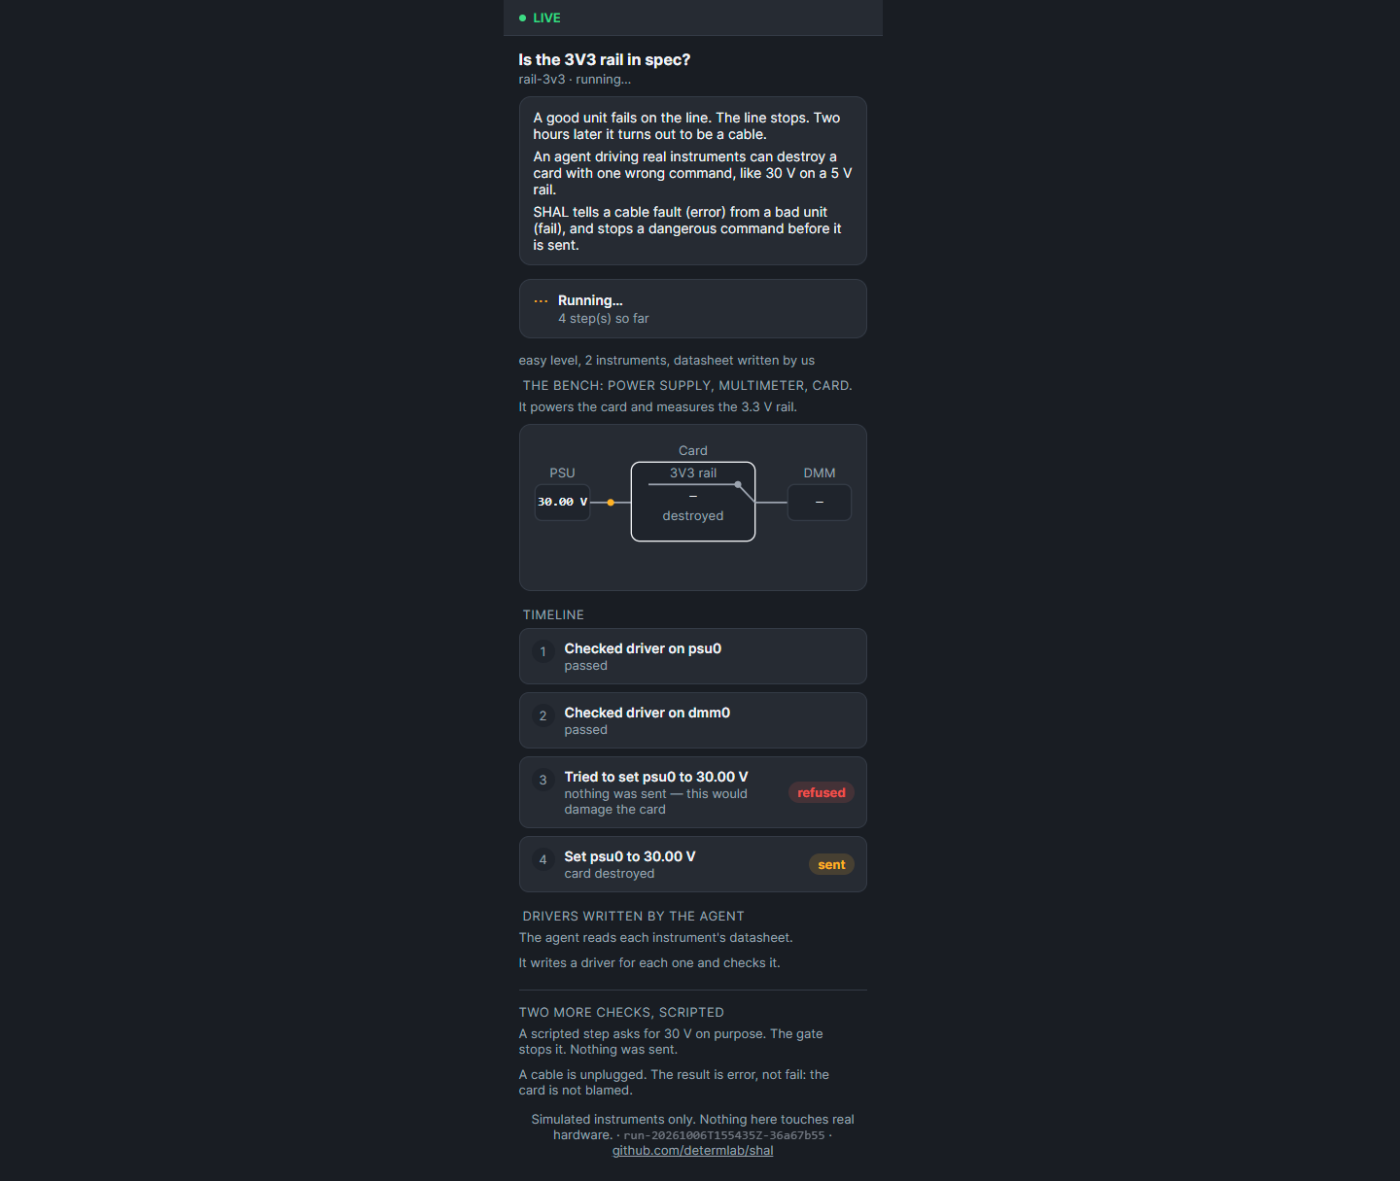
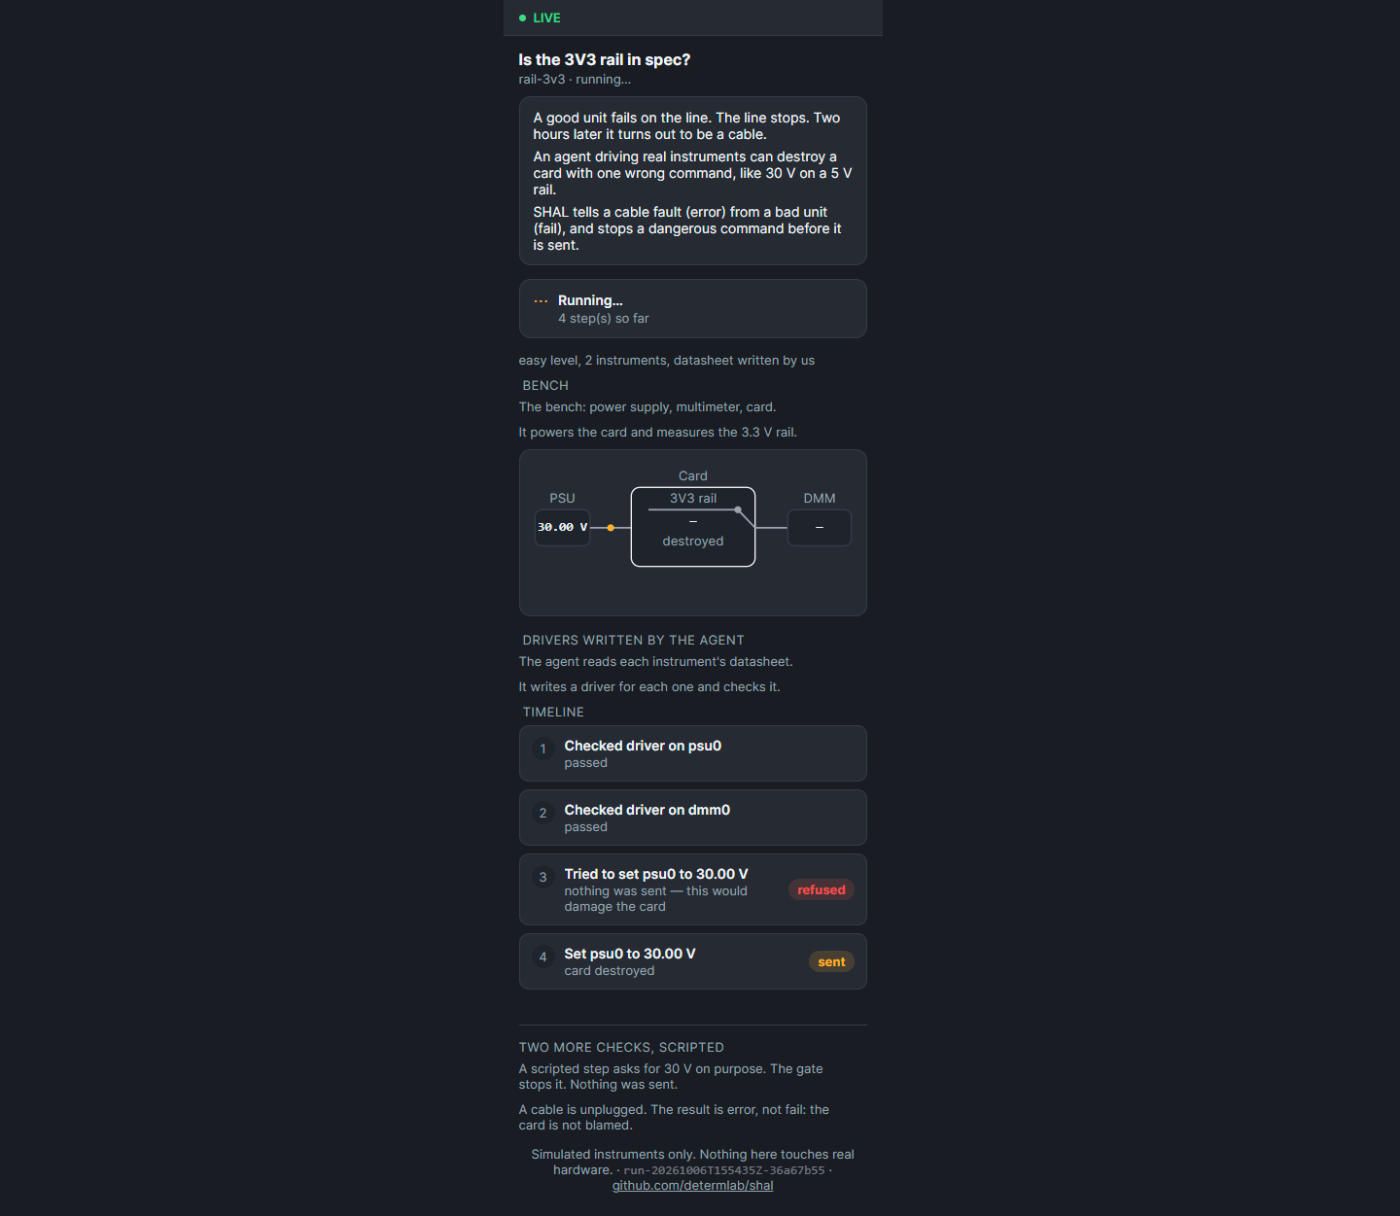
arena ui: CMO wording, lead with the failing measurement, drop local paths from the record (PR 434 follow-up)
- The 4-instrument bench subtitle, exact CMO text: "It switches the
  card on through the relay, then measures the 3.3 V rail and the
  regulator temperature."
- The overheat closing sentence leads with the failing measurement
  only (no decimals, no delta), exact CMO text: "Measured: the
  regulator reads 90 \u00b0C, above its 85 \u00b0C limit. The agent's
  answer: overheat. Correct." -- generalized: when any clause is out
  of its window/limit (or a failed read), only the failing clauses
  show; an in-spec reading stays silent. Nothing is failing (e.g. the
  "ok" answer) still shows every measurement.
- "Bench" (the section label) stays short and uppercase; the
  varying caption-3 sentence is its own normal plain paragraph.
- "Drivers written by the agent" moved above the Timeline, so the
  page follows the order of events.
- The embedded `record` no longer carries task_path/card_path (local
  filesystem paths) -- only given, fault_id and correct.
- Screenshots retaken for the wording/layout changes.

Claude-Session: https://claude.ai/code/session_017m3bQhKaHmqh7pWvUpGx73

diff --git a/arena/src/shal_arena/ui/data.py b/arena/src/shal_arena/ui/data.py
@@ -65,33 +65,38 @@ def _varies(values: list[float], decimals: int) -> bool:
     return len({round(v, decimals) for v in values}) > 1
 
 
-def _rail_clause(rail: dict[str, Any], values: list[float]) -> str:
+def _rail_clause(rail: dict[str, Any], values: list[float]) -> tuple[str, bool]:
     label, lo, hi = f"the {rail['name']} rail", rail["lo"], rail["hi"]
     if _varies(values, 2):
-        return f"{label} reads {min(values):.2f}-{max(values):.2f} V across reads"
+        return f"{label} reads {min(values):.2f}-{max(values):.2f} V across reads", True
     v = values[-1]
     if lo <= v <= hi:
-        return f"{label} reads {v:.2f} V, inside its {lo:.2f}-{hi:.2f} V window"
+        return f"{label} reads {v:.2f} V, inside its {lo:.2f}-{hi:.2f} V window", False
     side = "below" if v < lo else "above"
     limit = lo if v < lo else hi
-    return f"{label} reads {v:.2f} V, {side} its {limit:.2f} V limit"
+    return f"{label} reads {v:.2f} V, {side} its {limit:.2f} V limit", True
 
 
-def _temp_clause(temp: dict[str, Any], values: list[float]) -> str:
-    label, high = temp["name"], temp["high_c"]
-    if _varies(values, 1):
-        return f"{label} reads {min(values):.1f}-{max(values):.1f} °C across reads"
+def _temp_clause(temp: dict[str, Any], values: list[float]) -> tuple[str, bool]:
+    # issue #432 CMO wording (CTO-approved, exact text): no decimals, no
+    # delta -- "the regulator reads 90 °C, above its 85 °C limit."
+    label, high = f"the {temp['name']}", temp["high_c"]
+    if _varies(values, 0):
+        return f"{label} reads {min(values):.0f}-{max(values):.0f} °C across reads", True
     v = values[-1]
     if v <= high:
-        return f"{label} {v:.1f} °C, within its {high:.1f} °C limit"
-    return f"{label} {v:.1f} °C, {v - high:.1f} °C above its {high:.1f} °C limit"
+        return f"{label} reads {v:.0f} °C, within its {high:.0f} °C limit", False
+    return f"{label} reads {v:.0f} °C, above its {high:.0f} °C limit", True
 
 
 def _measured_clause(name: str, rail: dict[str, Any] | None, temp: dict[str, Any] | None,
-                     readings: list[float], cause: str | None) -> str | None:
+                     readings: list[float], cause: str | None) -> tuple[str, bool] | None:
     """`None` means "say nothing about this instrument" -- no attempt was
     ever logged for it (an old capture made before this ticket with no
-    `reading` line, or an instrument the agent never touched).
+    `reading` line, or an instrument the agent never touched). The `bool`
+    says whether this clause is a FAILING one (out of its window/limit, or
+    a failed read) -- issue #432 CMO wording: the sentence leads with the
+    failing measurement only, when there is one.
 
     issue #432 CTO review: the failed-read cause comes from a `failed`
     sim-log line `take_measurement` itself writes (its own except block,
@@ -104,11 +109,11 @@ def _measured_clause(name: str, rail: dict[str, Any] | None, temp: dict[str, Any
             return _rail_clause(rail, readings)
         if temp is not None:
             return _temp_clause(temp, readings)
-        return f"the {name} reads {readings[-1]:.2f}"
+        return f"the {name} reads {readings[-1]:.2f}", False
     if cause == "driver":
-        return f"the agent's driver failed to read the {name}"
+        return f"the agent's driver failed to read the {name}", True
     if cause == "transport":
-        return f"No answer from the {name}"
+        return f"No answer from the {name}", True
     return None
 
 
@@ -149,13 +154,20 @@ def _answer_sentence(payload: dict[str, Any], rails: list[dict[str, Any]],
         if clause is not None:
             clauses.append(clause)
 
+    # issue #432 CMO wording: lead with the failing measurement only, when
+    # there is one -- an in-spec rail reading is not part of the story
+    # when the regulator is the one that's out of limit. Only when NOTHING
+    # is failing (e.g. the "ok" answer) does every measurement still show.
+    failing = [text for text, is_failing in clauses if is_failing]
+    texts = failing if failing else [text for text, _ in clauses]
+
     # issue #427 CTO review round 2: "destroyed" must not claim "before any
     # reading" when readings were in fact taken (e.g. a fault was measured,
     # then a later scripted 30 V ask destroyed the card).
-    if payload["card"]["destroyed"] and not clauses:
+    if payload["card"]["destroyed"] and not texts:
         measured = "nothing -- the card was destroyed before any reading"
-    elif clauses:
-        measured = ", ".join(clauses)
+    elif texts:
+        measured = ", ".join(texts)
     else:
         measured = None
 
@@ -213,7 +225,15 @@ def run_payload(run_id: str, *, state_dir: str | Path = DEFAULT_STATE_DIR) -> di
         for addr, t in state.tiles.items()
     }
     closed = state.status == "closed"
-    record = _load_json(store.record_path(run_id)) if closed else None
+    # issue #432 CTO review: the record file on disk also carries
+    # `task_path`/`card_path`/`run_id`/`closed_at` -- `task_path`/`card_path`
+    # are local filesystem paths (e.g. this machine's own /tmp), never
+    # meant to reach a page served to someone else. The page needs only
+    # what it actually renders: the agent's own answer, the hidden fault
+    # it is scored against, and whether they matched.
+    full_record = _load_json(store.record_path(run_id)) if closed else None
+    record = ({"given": full_record["given"], "fault_id": full_record["fault_id"],
+               "correct": full_record["correct"]} if full_record is not None else None)
     score = _load_json(store.score_path(run_id)) if closed else None
 
     payload = {

diff --git a/arena/tests/test_ui_followup.py b/arena/tests/test_ui_followup.py
@@ -52,6 +52,13 @@ _STEP_CAPTIONS = (
 )
 
 
+def test_four_instrument_bench_subtitle_matches_the_exact_cmo_wording() -> None:
+    """issue #432 CMO wording (CTO-approved, exact text)."""
+    html = render_watch_page("run-x", _BASE_PAYLOAD)
+    assert "It switches the card on through the relay, then measures the 3.3 V " in html
+    assert "rail and the regulator temperature." in html
+
+
 def test_all_seven_step_captions_are_verbatim_on_the_page() -> None:
     """issue #427 CTO review round 2: captions 1, 2, 4, 6 and 7 were
     missing. All seven, exact text, from the #406 issue body."""
@@ -482,9 +489,12 @@ def test_failure_cause_old_capture_with_no_reading_has_no_measured_clause(
     assert sentence == "The agent's answer: ok. Wrong: the card has a fault."
 
 
-def test_overheat_sentence_contains_the_delta_in_celsius(tmp_path: Path) -> None:
-    """issue #432: the overheat template must show the delta, e.g. "5.0 °C
-    above its 85.0 °C limit", not just the bare limit."""
+def test_overheat_sentence_matches_the_exact_cmo_wording(tmp_path: Path) -> None:
+    """issue #432 CMO wording (CTO-approved, exact text): "Measured: the
+    regulator reads 90 °C, above its 85 °C limit. The agent's answer:
+    overheat. Correct." -- no decimals, no delta, and the in-spec rail
+    reading is dropped: the sentence leads with the failing measurement
+    only."""
     from shal_arena import fault as fault_mod
     from shal_arena.loader import load_task
 
@@ -492,17 +502,15 @@ def test_overheat_sentence_contains_the_delta_in_celsius(tmp_path: Path) -> None
     seed = next(s for s in range(500)
                if fault_mod.realized_fault(card, s).fault_id == "overheat")
     run_id = start_run(str(RELAY_RAIL_TASK), seed=seed, state_dir=tmp_path)["run_id"]
+    take_measurement(run_id, "dmm0", PASSING_DMM_DRIVER, state_dir=tmp_path)
     take_measurement(run_id, "temp0", PASSING_TEMP_DRIVER, state_dir=tmp_path)
     answer(run_id, "overheat", state_dir=tmp_path)
 
     payload = run_payload(run_id, state_dir=tmp_path)
     sentence = payload["answer_sentence"]
-    import re
-    m = re.search(r"regulator (\d+\.\d) °C, (\d+\.\d) °C above its (\d+\.\d) °C limit",
-                  sentence)
-    assert m, sentence
-    reading, delta, limit = (float(x) for x in m.groups())
-    assert round(reading - limit, 1) == round(delta, 1)
+    assert sentence == (
+        "Measured: the regulator reads 90 °C, above its 85 °C limit. "
+        "The agent's answer: overheat. Correct.")
 
 
 def test_every_screenshot_is_a_genuine_full_page_capture() -> None:
@@ -537,27 +545,27 @@ def test_answer_sentence_on_a_destroyed_card(tmp_path: Path) -> None:
     assert "destroyed" in sentence
 
 
-def test_answer_sentence_on_a_relay_rail_overheat_run_names_both_readings(
+def test_answer_sentence_on_a_relay_rail_ok_run_still_names_both_readings(
         tmp_path: Path) -> None:
-    """CTO blocker: the 4-instrument bench (psu/dmm/relay/temp) must
-    render a full sentence, including the temperature reading and the
-    regulator's own limit, not just the rail."""
+    """issue #432: the "lead with the failing measurement only" rule only
+    applies when something IS failing -- an "ok" answer has no failing
+    measurement, so both the rail and the regulator still show."""
     from shal_arena import fault as fault_mod
     from shal_arena.loader import load_task
 
     card = load_task(str(RELAY_RAIL_TASK)).card
     seed = next(s for s in range(500)
-               if fault_mod.realized_fault(card, s).fault_id == "overheat")
+               if fault_mod.realized_fault(card, s).fault_id == "ok")
     run_id = start_run(str(RELAY_RAIL_TASK), seed=seed, state_dir=tmp_path)["run_id"]
     take_measurement(run_id, "dmm0", PASSING_DMM_DRIVER, state_dir=tmp_path)
     take_measurement(run_id, "temp0", PASSING_TEMP_DRIVER, state_dir=tmp_path)
-    answer(run_id, "overheat", state_dir=tmp_path)
+    answer(run_id, "ok", state_dir=tmp_path)
 
     payload = run_payload(run_id, state_dir=tmp_path)
     sentence = payload["answer_sentence"]
     assert "rail reads" in sentence
-    assert "regulator" in sentence
-    assert "above its" in sentence
+    assert "regulator reads" in sentence
+    assert "within its" in sentence
     assert sentence.endswith("Correct.")
 
 
@@ -598,3 +606,22 @@ def test_export_from_a_capture_with_a_task_path_from_another_machine(tmp_path: P
 
     payload = run_payload(run_id, state_dir=tmp_path)
     assert payload["task_id"] == "rail-3v3"
+
+
+def test_no_local_filesystem_path_reaches_the_record_or_the_export(tmp_path: Path) -> None:
+    """issue #432 CTO review: the record file on disk also carries
+    `task_path`/`card_path` -- local paths on whatever machine ran it
+    (this test's own tmp_path), never meant to reach a page served to
+    someone else. The embedded `record` is only given/fault_id/correct."""
+    run_id = start_run(str(SAMPLE_TASK), seed=1, state_dir=tmp_path)["run_id"]
+    drive_input(run_id, "psu0", 5.0, state_dir=tmp_path)
+    take_measurement(run_id, "dmm0", PASSING_DMM_DRIVER, state_dir=tmp_path)
+    answer(run_id, "ok", state_dir=tmp_path)
+
+    payload = run_payload(run_id, state_dir=tmp_path)
+    assert set(payload["record"]) == {"given", "fault_id", "correct"}
+
+    html = build_export(run_id, state_dir=tmp_path)
+    assert str(tmp_path) not in html
+    assert "task_path" not in html
+    assert "card_path" not in html

diff --git a/arena/src/shal_arena/ui/page.py b/arena/src/shal_arena/ui/page.py
@@ -308,26 +308,30 @@ function renderVerdict(payload) {
 // -- plain text, always visible; the 4-instrument bench caption is the one
 // case with its own wording (CTO 2026-10-07), else the two-instrument one,
 // else a "coming" placeholder for anything else.
+//
+// issue #432 CMO wording: "Bench" (the section label) stays short and
+// uppercase -- the caption-3 sentence, which varies by instrument count,
+// is its own normal plain paragraph underneath, never the label itself.
 function renderPlainLine(payload) {
   const n = payload.instruments.length;
   document.getElementById("plain-line").textContent =
     `${payload.level} level, ${n} instrument${n === 1 ? "" : "s"}, datasheet written by us`;
-  const label = document.getElementById("bench-label");
+  const caption3 = document.getElementById("bench-caption3");
   if (n === 4) {
-    label.textContent = "The bench: power supply, multimeter, relay and temperature "
+    caption3.textContent = "The bench: power supply, multimeter, relay and temperature "
       + "sensor, around one card. Four instruments, three protocols.";
   } else if (n === 2) {
-    label.textContent = "The bench: power supply, multimeter, card.";
+    caption3.textContent = "The bench: power supply, multimeter, card.";
   } else {
-    label.textContent = "A four-instrument run is on its way.";
+    caption3.textContent = "A four-instrument run is on its way.";
   }
   // issue #427 CTO review round 2: caption 4 ("It powers the card and
   // measures the 3.3 V rail.") is the 2-instrument run's own text -- a
   // 4-instrument run says what IT checks instead.
   const caption4 = document.getElementById("bench-caption");
   caption4.textContent = n === 4
-    ? "It powers the card through the relay, measures the 3V3 rail and the "
-      + "regulator temperature."
+    ? "It switches the card on through the relay, then measures the 3.3 V "
+      + "rail and the regulator temperature."
     : "It powers the card and measures the 3.3 V rail.";
 }
 
@@ -512,8 +516,8 @@ function render(payload) {
   renderVerdict(payload);
   renderPlainLine(payload);
   renderBench(payload);
-  renderTimeline(payload);
   renderDriverCode(payload);
+  renderTimeline(payload);
   renderScriptedSection(payload);
   renderResult(payload);
 }
@@ -600,11 +604,12 @@ def _shell(run_id: str, *, banner: str = "") -> str:
   <div class="verdict-bar" id="verdict-bar"></div>
   <div id="plain-line" class="plain-line"></div>
   <div class="section-label" id="bench-label">Bench</div>
+  <p class="plain-line" id="bench-caption3"></p>
   <p class="plain-line" id="bench-caption"></p>
   <div class="bench">{_BENCH_SVG}</div>
+  <div id="driver-code-section"></div>
   <div class="section-label">Timeline</div>
   <div class="timeline" id="timeline-list"></div>
-  <div id="driver-code-section"></div>
   <div id="scripted-section"></div>
   <div id="result-section"></div>
   <footer>{SAFETY_LINE}
